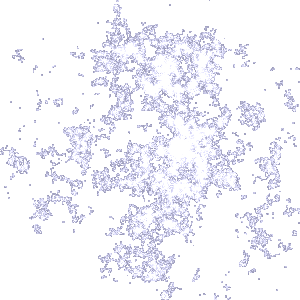
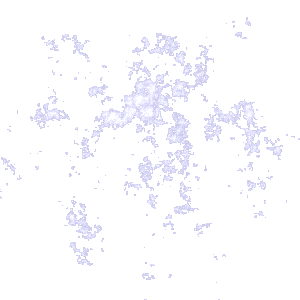
A couple more terrain "biome" types, cloud anti-aliasing

diff --git a/js/system/terrain.js b/js/system/terrain.js
@@ -19,8 +19,10 @@ function Terrain()
 	var city_chunks = [];                     // Regional chunks containing local cities
 	var sea_line = 40;                        // Sea level as a percent of max elevation
 	var tree_line = 65;                       // Height at which to reduce green as a percent of max elevation
-	var biome_line = 48;                      // Temperature at which trees no longer grow above [sea_line+5]
-	var shore_biome_line = 42;                // Below [sea_line+5], trees will grow if the temperature is between this value and value+4
+	var jungle_line = 45;                     // Temperature above which trees receive a darker red-green tint
+	var arid_line = 48;                       // Temperature at which trees no longer grow above [sea_line+5]
+	var desert_line = 55;                     // In between this temperature and +4 the landscape receives a redder tint
+	var shore_line = 42;                      // Below [sea_line+5], trees will grow if the temperature is between this value and value+4
 
 	var init = false;                         // Whether or not the terrain has been generated yet via build()
 	var init_timeout;                         // If render() is called before [init] is true, this interval will poll
@@ -47,7 +49,7 @@ function Terrain()
 			green: function(e)
 			{
 				if (e < sea_line) return Math.max(30, 60 - (4*sea_line - 4*e));
-				if (e <= sea_line+5) return 150;
+				if (e <= sea_line+5) return 155 - (sea_line+5) + e;
 				if (e <= tree_line) return 85+e;
 				if (e <= 80) return 140;
 				return 95+e;
@@ -67,9 +69,14 @@ function Terrain()
 			{
 				if (e >= 80) return 0;
 				if (e > tree_line) return -55;
-				if (e > sea_line+5 && t > biome_line) return -20 + Math.round(0.75*t);
-				if (e > sea_line+5) return -90+t;
-				if (e > sea_line && t > shore_biome_line && t < shore_biome_line+4) return -235+t+e;
+				if (e > sea_line+5)
+				{
+					if (is_in_between(t, desert_line+20, desert_line+24)) return -10 + Math.round(0.75*t);
+					if (t > arid_line) return -20 + Math.round(0.75*t);
+					if (t > jungle_line) return -70+t;
+					return -90+t;
+				}
+				if (e > sea_line && is_in_between(t, shore_line, shore_line+4)) return -235+t+e;
 				if (e < sea_line) return 20 - t - (sea_line-e);
 				return -55;
 			},
@@ -77,9 +84,14 @@ function Terrain()
 			{
 				if (e >= 80) return 0;
 				if (e > tree_line) return -50;
-				if (e > sea_line+5 && t > biome_line) return 30 + Math.round(-2.5*e) + Math.round(t/2);
-				if (e > sea_line+5) return -120 + t;
-				if (e > sea_line && t > shore_biome_line && t < shore_biome_line+4) return -180+t+e;
+				if (e > sea_line+5)
+				{
+					if (is_in_between(t, desert_line+20, desert_line+24)) return 10 + Math.round(-2.5*e) + Math.round(t/2);
+					if (t > arid_line) return 30 + Math.round(-2.5*e) + Math.round(t/2);
+					if (t > jungle_line) return -130+t;
+					return -120 + t;
+				}
+				if (e > sea_line && is_in_between(t, shore_line, shore_line+4)) return -180+t+e;
 				if (e < sea_line) return 50 - Math.round(t/2) - (sea_line-e);
 				return -55;
 			},
@@ -87,9 +99,13 @@ function Terrain()
 			{
 				if (e >= 80) return 0;
 				if (e > tree_line) return -65;
-				if (e > sea_line+5 && t > biome_line) return -30 + (sea_line+5) + Math.round(t/2) - e;
-				if (e > sea_line+5) return -50 + Math.round(t/25);
-				if (e > sea_line && t > shore_biome_line && t < shore_biome_line+4) return -265+t+e;
+				if (e > sea_line+5)
+				{
+					if (t > arid_line) return -30 + (sea_line+5) + Math.round(t/2) - e;
+					if (t > jungle_line) return -30 + Math.round(t/25);
+					return -50 + Math.round(t/25);
+				}
+				if (e > sea_line && is_in_between(t, shore_line, shore_line+4)) return -265+t+e;
 				if (e < sea_line) return 30 - Math.round(t/3) - (sea_line-e);
 				return -65;
 			}
@@ -639,8 +655,8 @@ function Terrain()
 			// Determine tile coloration
 			var hue =
 			{
-				r: color.elevation.red(_elevation) + color.temperature.red(temperature, _elevation) + (is_sunny ? 0 : -25),
-				g: color.elevation.green(_elevation) + color.temperature.green(temperature, _elevation) + (is_sunny ? 0 : -25),
+				r: color.elevation.red(_elevation) + color.temperature.red(temperature, _elevation) + (is_sunny ? 0 : -20),
+				g: color.elevation.green(_elevation) + color.temperature.green(temperature, _elevation) + (is_sunny ? 0 : -20),
 				b: color.elevation.blue(_elevation) + color.temperature.blue(temperature, _elevation)
 			};
 

diff --git a/cloud-generator.js b/cloud-generator.js
@@ -58,11 +58,11 @@ function generate_clouds(type) {
 			var average = Math.round(color/noise_count) - Math.pow(Math.round(300/size), 2) * Math.pow(Math.round(0.05*center_dist), 2);
 
 			if (average > 70) {
-				var adj = Math.round(3 * (average-70));
+				var adj = average-70;
 
-				canvas_image.data[pixel] = 150 + adj;
-				canvas_image.data[pixel+1] = 150 + adj;
-				canvas_image.data[pixel+2] = 180 + adj;
+				canvas_image.data[pixel] = 200 + adj;
+				canvas_image.data[pixel+1] = 200 + adj;
+				canvas_image.data[pixel+2] = 230 + adj;
 				canvas_image.data[pixel+3] = 255;
 
 				shadow_image.data[pixel] = 0;
@@ -74,7 +74,7 @@ function generate_clouds(type) {
 	}
 
 	// Reduce stray pixel-sized clouds
-	for (var i = 0 ; i < 2 ; i++) {
+	for (var i = 0 ; i < 1 ; i++) {
 		for (var y = 0 ; y < size ; y++) {
 			for (var x = 0 ; x < size ; x++) {
 				var pixel = 4 * (y*size + x);
@@ -86,14 +86,22 @@ function generate_clouds(type) {
 
 				var empty_surrounding = 0;
 
-				if (canvas_image.data[top_px+3] === 0) empty_surrounding++;
-				if (canvas_image.data[left_px+3] === 0) empty_surrounding++;
-				if (canvas_image.data[right_px+3] === 0) empty_surrounding++;
-				if (canvas_image.data[bottom_px+3] === 0) empty_surrounding++;
+				if (canvas_image.data[top_px+3] < 255) empty_surrounding++;
+				if (canvas_image.data[left_px+3] < 255) empty_surrounding++;
+				if (canvas_image.data[right_px+3] < 255) empty_surrounding++;
+				if (canvas_image.data[bottom_px+3] < 255) empty_surrounding++;
 
 				if (empty_surrounding >= 3) {
 					canvas_image.data[pixel+3] = 0;
 					shadow_image.data[pixel+3] = 0;
+					continue;
+				}
+
+				if (canvas_image.data[pixel+3] === 0) {
+					canvas_image.data[pixel] = 255;
+					canvas_image.data[pixel+1] = 255;
+					canvas_image.data[pixel+2] = 255;
+					canvas_image.data[pixel+3] = 80;
 				}
 			}
 		}

diff --git a/js/system/tools.js b/js/system/tools.js
@@ -1,32 +1,38 @@
 /**
  * RNG between two limits
  */
-function random(low, high) {
+function random(low, high)
+{
 	return low + Math.floor(Math.random() * (high - low + 1));
 }
 
 /**
  * Negative-friendly modulus operation
  */
-function mod(n, m) {
+function mod(n, m)
+{
 	return ((n%m)+m)%m;
 }
 
 /**
  * Keep a value within a certain range
  */
-function clamp(value, min, max) {
+function clamp(value, min, max)
+{
 	return (value > max ? max : (value < min ? min : value));
 }
 
 /**
  * Return the smallest of all numerical arguments
  */
-function minimum() {
+function minimum()
+{
 	var min = Number.POSITIVE_INFINITY;
 
-	for (var n = 0 ; n < arguments.length ; n++) {
-		if (arguments[n] < min) {
+	for (var n = 0 ; n < arguments.length ; n++)
+	{
+		if (arguments[n] < min)
+		{
 			min = arguments[n];
 		}
 	}
@@ -35,29 +41,41 @@ function minimum() {
 }
 
 /**
+ * Determines whether a number is in between two others
+ */
+function is_in_between(value, low, high)
+{
+	return (value > low && value < high);
+}
+
+/**
  * Returns 0 if 1 and vice versa
  */
-function bit_flip(bit) {
+function bit_flip(bit)
+{
 	return !bit ? 1 : 0;
 }
 
 /**
  * Cycles a smaller-than-zero value back to max
  */
-function cycle_forward(value, max) {
+function cycle_forward(value, max)
+{
 	return (value < 0 ? max : value);
 }
 
 /**
  * Cycles a larger-than-max value back to 0
  */
-function cycle_back(value, max) {
+function cycle_back(value, max)
+{
 	return (value > max ? 0 : value);
 }
 
 /**
  * Shorthand for element creation + manipulation
  */
-function Element(type) {
+function Element(type)
+{
 	return document.createElement(type);
 }

diff --git a/js/core/background.js b/js/core/background.js
@@ -15,7 +15,7 @@ function Background(assets)
 	var bg_camera;                                     // The scrolling background camera instance
 	var front_bg = 0;                                  // Binary; represents the current front screen of the background cycle
 	var active_terrain = 0;                            // Current time-of-day terrain prerender being shown
-	var cloud_variants = 4;                            // Number of different cloud types to randomly pick from
+	var cloud_variants = 5;                            // Number of different cloud types to randomly pick from
 	var build_steps = 0;                               // Determined in build() by various configuration parameters
 	var build_steps_complete = 0;                      // For passing back into the progress handler
 	var configuration = default_configuration();
@@ -222,8 +222,8 @@ function Background(assets)
 
 		shadow_offset =
 		{
-			x: configuration.tileSize * 5 * Math.cos(configuration.lightAngle * pi_factor) * -1,
-			y: configuration.tileSize * 5 * Math.sin(configuration.lightAngle * pi_factor)
+			x: configuration.tileSize * 8 * Math.cos(configuration.lightAngle * pi_factor) * -1,
+			y: configuration.tileSize * 8 * Math.sin(configuration.lightAngle * pi_factor)
 		};
 	}
 

diff --git a/js/assets/manifest.js b/js/assets/manifest.js
@@ -7,10 +7,12 @@ var AssetManifest = {
 			'clouds/2.png',
 			'clouds/3.png',
 			'clouds/4.png',
+			'clouds/5.png',
 			'shadows/1.png',
 			'shadows/2.png',
 			'shadows/3.png',
-			'shadows/4.png'
+			'shadows/4.png',
+			'shadows/5.png'
 		],
 	},
 	audio: {
